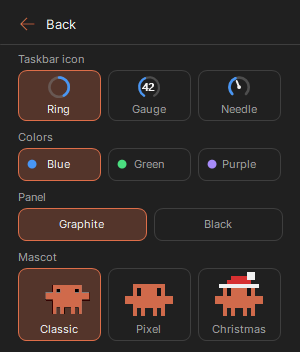
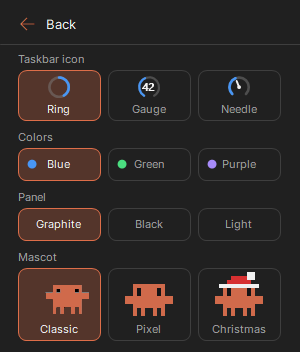
Add a light panel theme
- Add a light option to the panel themes
- Use darker level colors on the light panel
- Remove the dark outline from the Classic mascot
- Bump the version to 1.5.4

diff --git a/src/Theme.cs b/src/Theme.cs
@@ -3,19 +3,25 @@ using System.Drawing;
 using System.Drawing.Drawing2D;
 
 enum ColorTemplate { Green, Blue, Purple }
-enum PanelTheme { Graphite, Black }
+enum PanelTheme { Graphite, Black, Light }
 
 static class Theme
 {
     public static ColorTemplate Colors = Settings.Colors;
     public static PanelTheme Panel = Settings.PanelTheme;
 
-    public static Color Background { get { return Panel == PanelTheme.Black ? Color.FromArgb(10, 10, 10) : Color.FromArgb(32, 32, 32); } }
-    public static Color Hover { get { return Panel == PanelTheme.Black ? Color.FromArgb(34, 34, 34) : Color.FromArgb(52, 52, 52); } }
-    public static Color Border { get { return Panel == PanelTheme.Black ? Color.FromArgb(46, 46, 46) : Color.FromArgb(62, 62, 62); } }
-    public static Color Track { get { return Panel == PanelTheme.Black ? Color.FromArgb(44, 44, 44) : Color.FromArgb(58, 58, 58); } }
-    public static readonly Color Text = Color.FromArgb(242, 242, 242);
-    public static readonly Color Muted = Color.FromArgb(160, 160, 160);
+    static Color Pick(Color graphite, Color black, Color light)
+    {
+        return Panel == PanelTheme.Light ? light : Panel == PanelTheme.Black ? black : graphite;
+    }
+
+    public static Color Background { get { return Pick(Color.FromArgb(32, 32, 32), Color.FromArgb(10, 10, 10), Color.FromArgb(250, 249, 245)); } }
+    public static Color Hover { get { return Pick(Color.FromArgb(52, 52, 52), Color.FromArgb(34, 34, 34), Color.FromArgb(238, 236, 229)); } }
+    public static Color Border { get { return Pick(Color.FromArgb(62, 62, 62), Color.FromArgb(46, 46, 46), Color.FromArgb(222, 219, 210)); } }
+    public static Color Track { get { return Pick(Color.FromArgb(58, 58, 58), Color.FromArgb(44, 44, 44), Color.FromArgb(226, 223, 214)); } }
+    public static Color Text { get { return Pick(TrayText, TrayText, Color.FromArgb(31, 30, 29)); } }
+    public static Color Muted { get { return Pick(Color.FromArgb(160, 160, 160), Color.FromArgb(160, 160, 160), Color.FromArgb(107, 105, 99)); } }
+    public static readonly Color TrayText = Color.FromArgb(242, 242, 242); // The taskbar stays dark whatever the panel theme is.
     public static readonly Color Accent = Color.FromArgb(222, 110, 73);
     public static readonly Color Red = Color.FromArgb(239, 68, 68);
     static readonly Color Amber = Color.FromArgb(245, 158, 11);
@@ -28,6 +34,17 @@ static class Theme
         if (percent.Value >= 90) return Red;
         if (percent.Value >= 70) return Colors == ColorTemplate.Green ? Amber : Yellow;
         return NormalColor(Colors);
+    }
+
+    // The brightest level colors are too faint on the light panel, so its bars and numbers use darker ones.
+    public static Color ForPanel(int? percent, bool stale)
+    {
+        Color color = ForPercent(percent, stale);
+        if (Panel != PanelTheme.Light) return color;
+        if (color == Yellow || color == Amber) return Color.FromArgb(202, 138, 4);
+        if (color == NormalColor(ColorTemplate.Green)) return Color.FromArgb(22, 163, 74);
+        if (color == NormalColor(ColorTemplate.Purple)) return Color.FromArgb(124, 92, 230);
+        return color;
     }
 
     public static Color NormalColor(ColorTemplate template)

diff --git a/src/Mascot.cs b/src/Mascot.cs
@@ -5,6 +5,7 @@ using System.Drawing.Drawing2D;
 using System.Drawing.Imaging;
 using System.IO;
 using System.Reflection;
+using System.Runtime.InteropServices;
 
 // The Classic character, built into the app as a GIF with a transparent background.
 class Mascot : IMascot
@@ -13,6 +14,10 @@ class Mascot : IMascot
     const int DefaultDelayMs = 100;
     const int MinimumDelayMs = 40;
     const int FrameDelayProperty = 0x5100;
+    const int EdgePasses = 2; // The dark outline is up to two pixels wide.
+    const int BodyRed = 150; // Darker than this is outline, not the character's orange.
+    const int LaptopGray = 80;
+    const int NeutralRange = 16;
 
     readonly List<Bitmap> frames = new List<Bitmap>();
     readonly List<int> delays = new List<int>();
@@ -58,11 +63,53 @@ class Mascot : IMascot
             using (Bitmap frame = new Bitmap(image.Width, image.Height, PixelFormat.Format32bppArgb))
             {
                 using (Graphics g = Graphics.FromImage(frame)) g.DrawImage(image, area);
+                RemoveDarkEdge(frame);
                 frames.Add(Scale(frame, area, width, height));
             }
             int delay = BitConverter.ToInt32(delayData, i * 4) * 10;
             delays.Add(delay <= 0 ? DefaultDelayMs : Math.Max(MinimumDelayMs, delay));
         }
+    }
+
+    // The GIF was cut from a dark background, which leaves an outline that shows on the light panel.
+    static void RemoveDarkEdge(Bitmap frame)
+    {
+        int width = frame.Width;
+        int height = frame.Height;
+        Rectangle area = new Rectangle(0, 0, width, height);
+        BitmapData data = frame.LockBits(area, ImageLockMode.ReadWrite, PixelFormat.Format32bppArgb);
+        int[] pixels = new int[width * height];
+        Marshal.Copy(data.Scan0, pixels, 0, pixels.Length);
+
+        for (int pass = 0; pass < EdgePasses; pass++)
+        {
+            int[] next = (int[])pixels.Clone();
+            for (int y = 0; y < height; y++)
+                for (int x = 0; x < width; x++)
+                    if (IsOutline(pixels[y * width + x]) && TouchesTransparent(pixels, x, y, width, height)) next[y * width + x] = 0;
+            pixels = next;
+        }
+
+        Marshal.Copy(pixels, 0, data.Scan0, pixels.Length);
+        frame.UnlockBits(data);
+    }
+
+    static bool IsOutline(int pixel)
+    {
+        Color color = Color.FromArgb(pixel);
+        bool laptop = Math.Abs(color.R - color.B) < NeutralRange && color.R >= LaptopGray;
+        return color.A > 0 && color.R < BodyRed && !laptop;
+    }
+
+    static bool TouchesTransparent(int[] pixels, int x, int y, int width, int height)
+    {
+        return IsTransparent(pixels, x - 1, y, width, height) || IsTransparent(pixels, x + 1, y, width, height)
+            || IsTransparent(pixels, x, y - 1, width, height) || IsTransparent(pixels, x, y + 1, width, height);
+    }
+
+    static bool IsTransparent(int[] pixels, int x, int y, int width, int height)
+    {
+        return x < 0 || y < 0 || x >= width || y >= height || (pixels[y * width + x] >> 24 & 0xFF) == 0;
     }
 
     static Bitmap Scale(Bitmap source, Rectangle area, int width, int height)

diff --git a/src/UsagePanel.cs b/src/UsagePanel.cs
@@ -220,6 +220,7 @@ class UsagePanel : Form
         AddColorChip(ColorTemplate.Purple, "colorPurple", 2, callbacks);
         AddPanelThemeChip(PanelTheme.Graphite, "panelGraphite", 0, callbacks);
         AddPanelThemeChip(PanelTheme.Black, "panelBlack", 1, callbacks);
+        AddPanelThemeChip(PanelTheme.Light, "panelLight", 2, callbacks);
         AddMascotChip(MascotStyle.Classic, "mascotClassic", 0, callbacks);
         AddMascotChip(MascotStyle.Pixel, "mascotPixel", 1, callbacks);
         AddMascotChip(MascotStyle.Santa, "mascotSanta", 2, callbacks);
@@ -263,7 +264,7 @@ class UsagePanel : Form
     {
         PanelTarget chip = new PanelTarget();
         chip.LabelKey = labelKey;
-        chip.Bounds = ChipBounds(column, 2, 208, 32);
+        chip.Bounds = ChipBounds(column, 3, 208, 32);
         chip.Selected = delegate { return Theme.Panel == value; };
         chip.Run = delegate { callbacks.ChangePanelTheme(value); };
         appearanceTargets.Add(chip);
@@ -902,7 +903,7 @@ class UsagePanel : Form
 
     void DrawLimit(Graphics g, string label, UsageWindow window, string pace, bool withCountdown, int top, int left, int right)
     {
-        Color color = Theme.ForPercent(window.Percent, state.Stale);
+        Color color = Theme.ForPanel(window.Percent, state.Stale);
         string percent = window.Percent.HasValue ? window.Percent.Value + "%" : "--";
         Draw(g, label, labelFont, Theme.Text, left, top, right - left, TextFormatFlags.Left);
         Draw(g, percent, percentFont, color, left, top - Px(1), right - left, TextFormatFlags.Right);
@@ -978,7 +979,7 @@ class UsagePanel : Form
         int iconSize = Px(22);
         Rectangle icon = new Rectangle(chip.Bounds.X + (chip.Bounds.Width - iconSize) / 2, chip.Bounds.Y + Px(6), iconSize, iconSize);
         int? sample = state.Session.Percent ?? 60;
-        using (Bitmap preview = TrayIcon.Draw(chip.Style.Value, sample, true, state.Stale, iconSize, false))
+        using (Bitmap preview = TrayIcon.Draw(chip.Style.Value, sample, true, state.Stale, iconSize, Theme.Panel == PanelTheme.Light))
             g.DrawImageUnscaled(preview, icon.Location);
 
         Rectangle label = new Rectangle(chip.Bounds.X, icon.Bottom + Px(2), chip.Bounds.Width, chip.Bounds.Bottom - icon.Bottom - Px(3));
@@ -1054,7 +1055,7 @@ class UsagePanel : Form
 
         int knob = height - Px(6);
         float knobX = pill.X + Px(3) + (pill.Width - knob - Px(6)) * on;
-        using (Brush brush = new SolidBrush(Theme.Text))
+        using (Brush brush = new SolidBrush(Color.White))
             g.FillEllipse(brush, knobX, pill.Y + Px(3), knob, knob);
     }
 

diff --git a/src/TrayIcon.cs b/src/TrayIcon.cs
@@ -75,7 +75,7 @@ static class TrayIcon
             else if (style == IconStyle.Gauge) DrawArc(g, box, stroke, GaugeStart, GaugeSweep, progress, color);
             else DrawArc(g, box, stroke, DialStart, DialSweep, progress, color);
 
-            Color foreground = primary && !stale ? (onLight ? DarkForeground : Theme.Text) : color;
+            Color foreground = primary && !stale ? (onLight ? DarkForeground : Theme.TrayText) : color;
             if (style == IconStyle.Needle && percent.HasValue) DrawNeedle(g, box, progress, foreground);
             else if (style == IconStyle.Gauge || !percent.HasValue) DrawNumber(g, percent, foreground, box);
         }

diff --git a/src/Localization.cs b/src/Localization.cs
@@ -58,6 +58,7 @@ static class Localization
         { "panelTheme", "Panel" },
         { "panelGraphite", "Graphite" },
         { "panelBlack", "Black" },
+        { "panelLight", "Light" },
         { "both", "Both" },
         { "sessionShort", "5 hours" },
         { "weeklyShort", "Weekly" },
@@ -134,6 +135,7 @@ static class Localization
         { "panelTheme", "Painel" },
         { "panelGraphite", "Grafite" },
         { "panelBlack", "Preto" },
+        { "panelLight", "Claro" },
         { "both", "Ambos" },
         { "sessionShort", "5 horas" },
         { "weeklyShort", "Semanal" },

diff --git a/src/Preview.cs b/src/Preview.cs
@@ -86,7 +86,7 @@ static class Preview
     static void RenderThemes(UsagePanel panel, string path)
     {
         ColorTemplate[] colors = { ColorTemplate.Blue, ColorTemplate.Green, ColorTemplate.Purple };
-        PanelTheme[] themes = { PanelTheme.Graphite, PanelTheme.Black, PanelTheme.Graphite };
+        PanelTheme[] themes = { PanelTheme.Graphite, PanelTheme.Black, PanelTheme.Light };
         const int Gap = 16;
         using (Bitmap sheet = new Bitmap(colors.Length * (panel.Width + Gap) + Gap, panel.Height + Gap * 2))
         using (Graphics g = Graphics.FromImage(sheet))

diff --git a/src/App.cs b/src/App.cs
@@ -11,7 +11,7 @@ using System.Runtime.InteropServices;
 static class App
 {
     public const string Name = "Claude Usage Taskbar";
-    public const string Version = "1.5.3";
+    public const string Version = "1.5.4";
     public const string Id = "ClaudeUsageTaskbar";
     public const string ExeName = Id + ".exe";
 

diff --git a/README.ru.md b/README.ru.md
@@ -14,7 +14,7 @@
 
 - Значки на панели задач с использованием за **5 часов** и за **неделю**. Можно показывать оба или один
 - Три стиля значков: **Ring**, **Gauge** и **Needle**
-- Три цветовых шаблона и две темы окна
+- Три цветовых шаблона и три темы окна
 - Окно со временем сброса, прогнозом темпа и графиком за 12 часов
 - Анимированный маскот и пиксельные версии, которые реагируют на использование
 - Необязательные оповещения при 80% и 90% лимита
@@ -76,12 +76,12 @@
 
 ### Цвета и темы
 
-![Синий с графитовой темой, зелёный с чёрной и фиолетовый с графитовой](docs/images/themes-en.png)
+![Синий с графитовой темой, зелёный с чёрной и фиолетовый со светлой](docs/images/themes-en.png)
 
 В разделе **Appearance**:
 
 - **Colors:** по умолчанию синий, также зелёный или фиолетовый. Цвет применяется к значкам и полосам.
-- **Panel:** графитовая или чёрная тема.
+- **Panel:** графитовая, чёрная или светлая тема.
 
 ### Маскот
 

diff --git a/README.es.md b/README.es.md
@@ -14,7 +14,7 @@ Consulta los límites de uso de Claude Code en la barra de tareas de Windows, si
 
 - Iconos en la barra de tareas con tu uso de **5 horas** y **semanal**. Muestra ambos o solo uno
 - Tres estilos de icono: **Ring**, **Gauge** y **Needle**
-- Tres plantillas de color y dos temas de panel
+- Tres plantillas de color y tres temas de panel
 - Un panel con horas de reinicio, previsión de ritmo y un gráfico de 12 horas
 - Una mascota animada, con versiones pixeladas que reaccionan a tu uso
 - Alertas opcionales al 80% y al 90% de un límite
@@ -76,12 +76,12 @@ El gráfico muestra tu uso de 5 horas durante las últimas 12 horas. Pasa el rat
 
 ### Colores y temas
 
-![Azul con grafito, verde con negro y morado con grafito](docs/images/themes-en.png)
+![Azul con grafito, verde con negro y morado con claro](docs/images/themes-en.png)
 
 En **Appearance**:
 
 - **Colors:** azul de forma predeterminada, o verde o morado. Se aplican a los iconos y las barras.
-- **Panel:** grafito o negro.
+- **Panel:** grafito, negro o claro.
 
 ### Mascota
 

diff --git a/README.pt-BR.md b/README.pt-BR.md
@@ -12,7 +12,7 @@ Veja os limites de uso do Claude Code na barra de tarefas do Windows, sem precis
 
 - Ícones na barra de tarefas com o uso de **5 horas** e o **semanal**. Mostre os dois, ou só um
 - Três estilos de ícone: **Círculo**, **Velocímetro** e **Ponteiro**
-- Três modelos de cor e dois temas de painel
+- Três modelos de cor e três temas de painel
 - Painel com horários de reinício, previsão de ritmo e gráfico de 12 horas
 - Mascote animado, com versões em pixels que reagem ao seu uso
 - Alertas opcionais em 80% e 90% de um limite
@@ -75,12 +75,12 @@ O gráfico mostra o uso de 5 horas nas últimas 12 horas. Passe o mouse sobre el
 
 ### Cores e temas
 
-![Azul com grafite, verde com preto e roxo com grafite](docs/images/themes-pt-BR.png)
+![Azul com grafite, verde com preto e roxo com claro](docs/images/themes-pt-BR.png)
 
 Em **Aparência**:
 
 - **Cores:** azul por padrão, ou verde ou roxo. Valem para os ícones e as barras.
-- **Painel:** grafite ou preto.
+- **Painel:** grafite, preto ou claro.
 
 ### Mascote
 

diff --git a/README.md b/README.md
@@ -12,7 +12,7 @@ See your Claude Code usage limits in the Windows taskbar, without opening anythi
 
 - Taskbar icons with your **5-hour** and **weekly** usage. Show both, or only one
 - Three icon styles: **Ring**, **Gauge** and **Needle**
-- Three color templates and two panel themes
+- Three color templates and three panel themes
 - A panel with reset times, a pace forecast and a 12-hour chart
 - An animated mascot, with pixel versions that react to your usage
 - Optional alerts at 80% and 90% of a limit
@@ -75,12 +75,12 @@ The chart shows your 5-hour usage over the last 12 hours. Hover over it to see t
 
 ### Colors and themes
 
-![Blue with graphite, green with black and purple with graphite](docs/images/themes-en.png)
+![Blue with graphite, green with black and purple with light](docs/images/themes-en.png)
 
 Under **Appearance**:
 
 - **Colors:** blue by default, or green or purple. They apply to the icons and the bars.
-- **Panel:** graphite or black.
+- **Panel:** graphite, black or light.
 
 ### Mascot
 

diff --git a/CHANGELOG.md b/CHANGELOG.md
@@ -1,5 +1,10 @@
 # Changelog
 
+## 1.5.4
+
+- New light panel theme
+- The Classic mascot no longer has a dark outline
+
 ## 1.5.3
 
 - The update check when the app opens installs an update right away, and a notification confirms it
